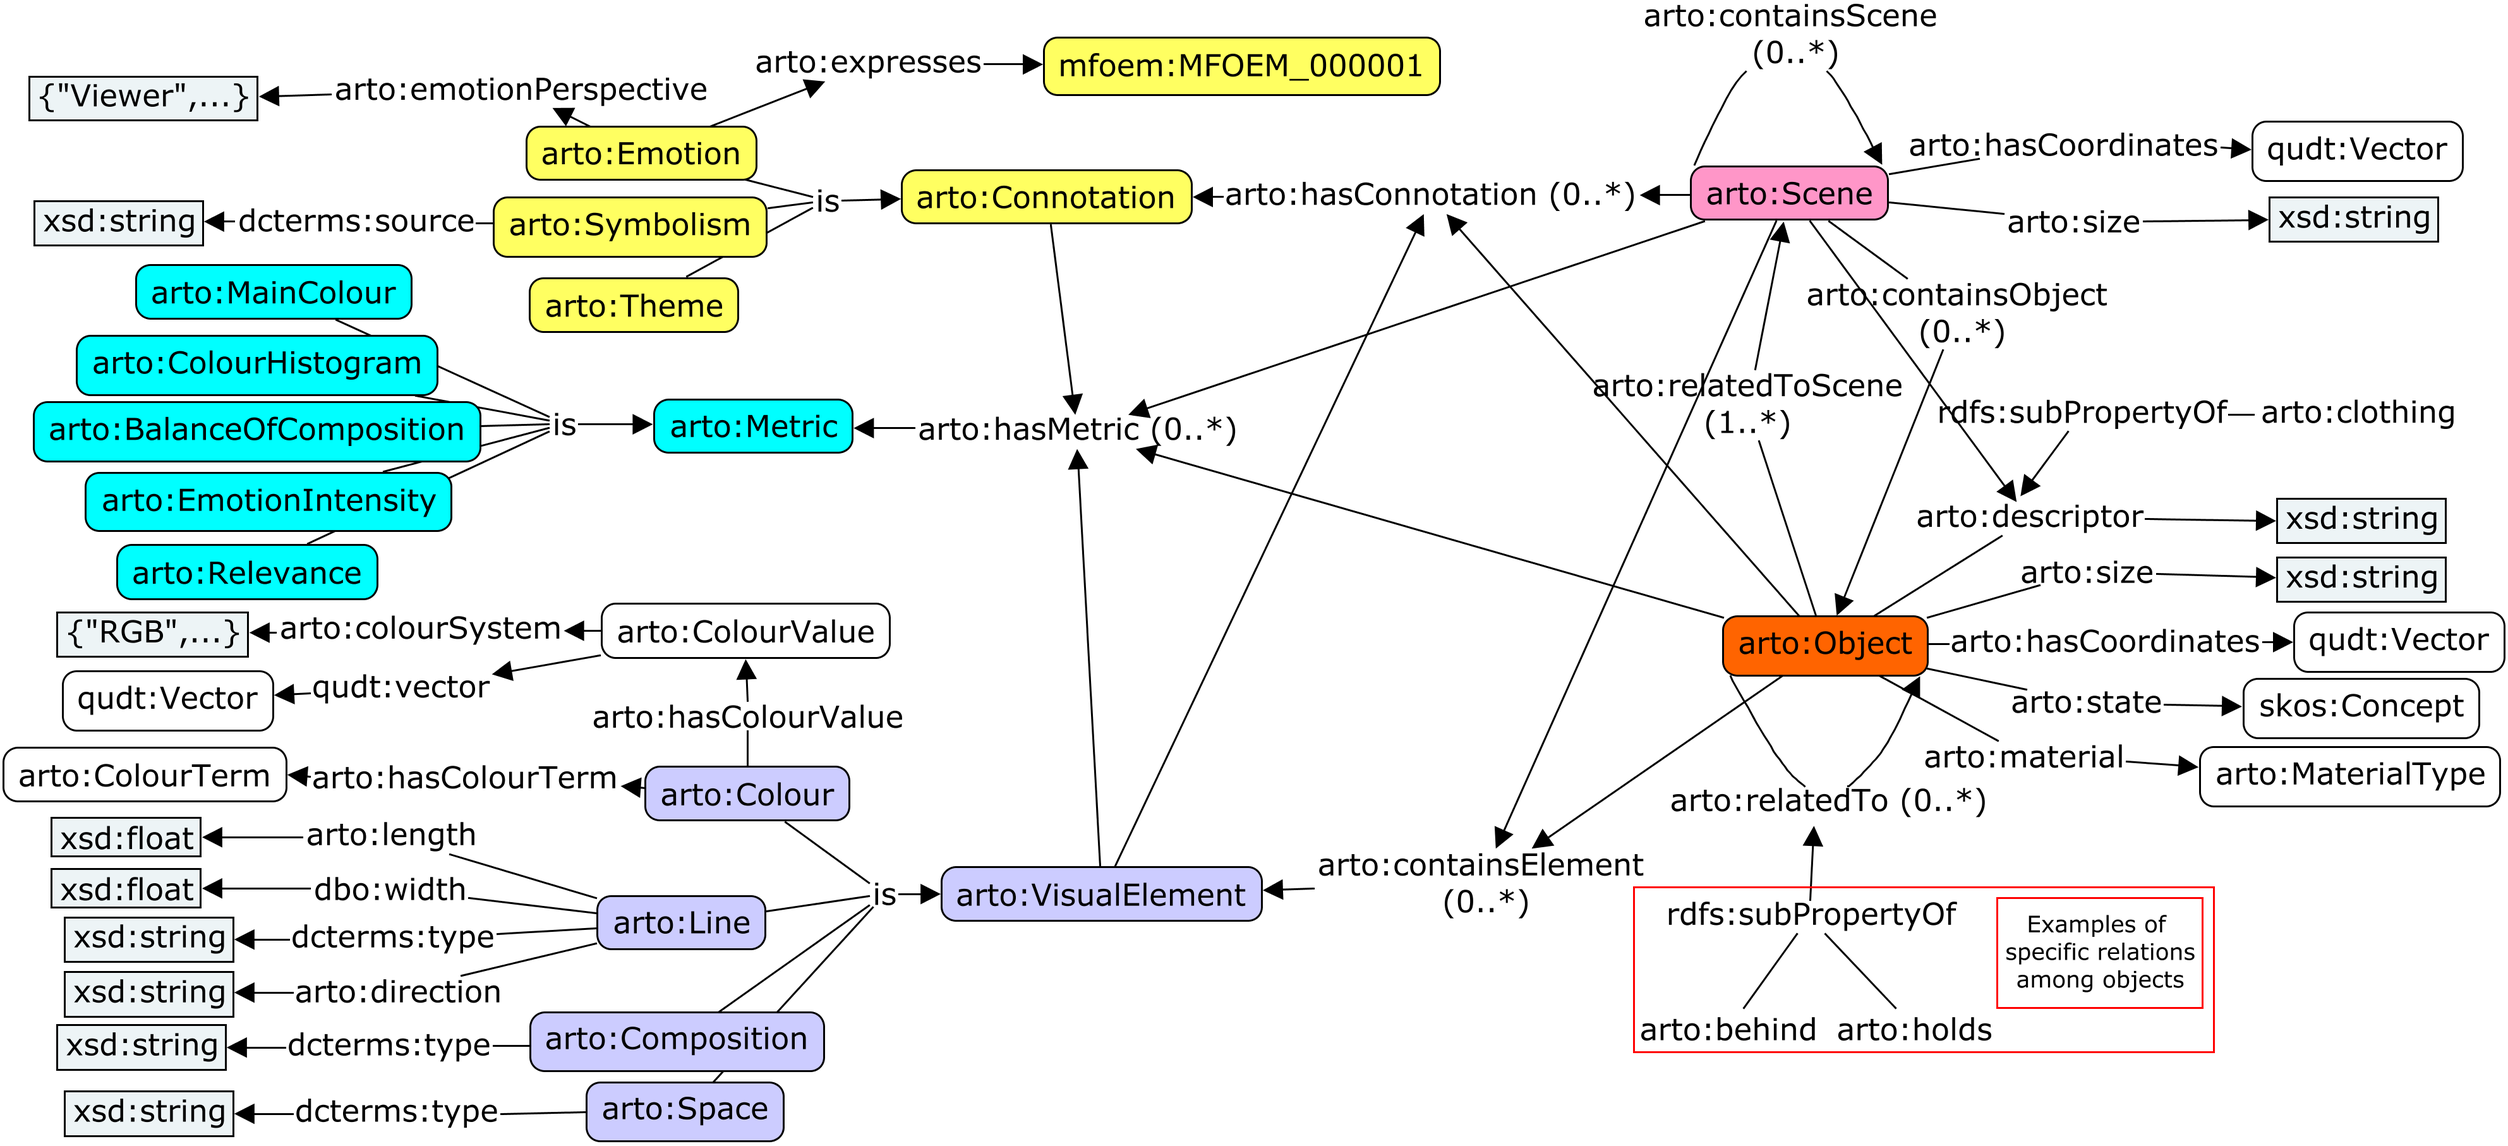
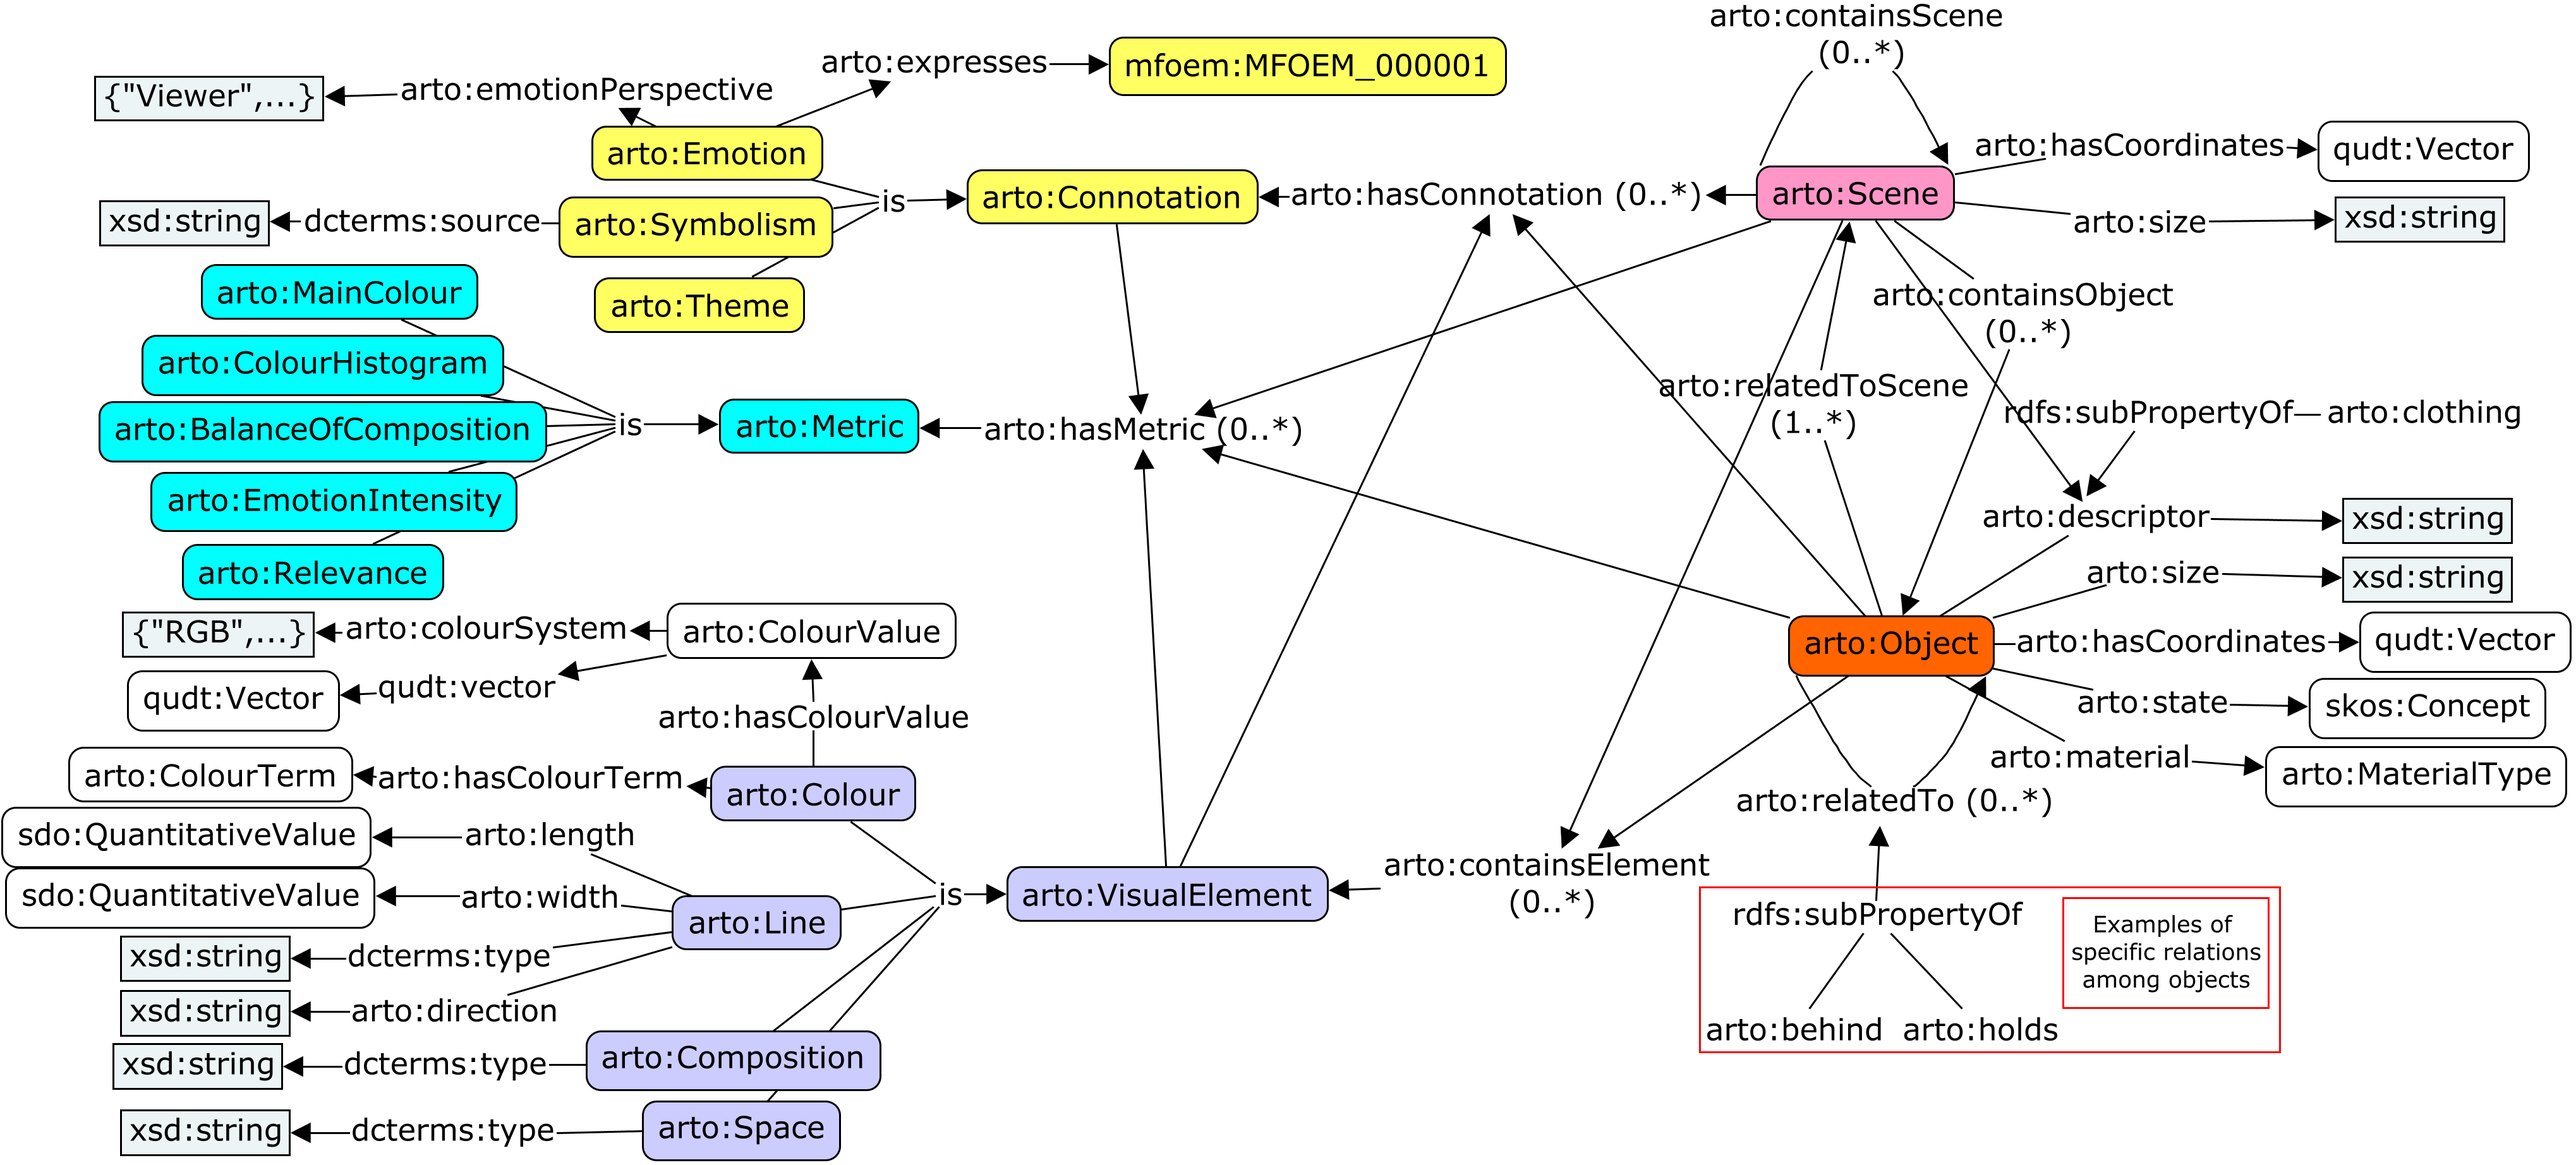
update

diff --git a/README.md b/README.md
@@ -52,7 +52,7 @@ To demonstrate the application of the ARTO models, consider Figure 4, the artwor
 
 The Contextual Model provides insights into the painting’s creation in 1889, during the artist's life, reflecting the social and historical aspects of that era in France. 
 
-> We use RDF-star to represent "The Shepherdess", specifically focusing on the Event class. Standard RDF increases modeling complexity due to its limitation to binary relationships (see [RDF example](RDFExampleContextualModel.md)).
+> We use RDF-star to represent "The Shepherdess", specifically focusing on the Event class. Standard RDF increases modelling complexity due to its limitation to binary relationships (see [RDF example](RDFExampleContextualModel.md)).
 
 ### Contextual Model of The Shepherdess 
 
@@ -98,15 +98,15 @@ The table below summarises previous works in the field. The "Motivation for ARTO
 
 | Name      | Domain           | Goal       | Ontology Scope                         | Strengths    | Motivation for ARTO                   |
 |-----------|------------------|---------------------------|---------------------|--------------------------------------|-----------------------------------------------------------------------|
-| CIDOC-CRM                                               | Cultural Heritage | To provide a theoretical and practical tool for integrating information in the cultural heritage domain, facilitating complex data queries and explorations. |  Events, actors, artifacts, and their relationships in cultural heritage contexts |  Comprehensive model, high-level data integration and retrieval |   Lacks detailed visual description capabilities for artwork content. ARTO provides comprehensive visual element representation (colour, line, composition) and multi-level content modeling         |
-| Visual Representation (VIR)                             | Visual Arts       | To extend CIDOC-CRM to describe the representation and relationships of visual features.                         | Visual elements, media, representation, and relationships        | Enhances visual data accessibility and retrieval                   | Lacks a multi-level representation structure and comprehensive contextual modeling. ARTO provides both detailed visual content representation and rich contextual information for artwork captioning. |
-| Functional Requirements for Bibliographic Records (FRBR)| Bibliography      | To provide a comprehensive model for bibliographic records, focusing on the relationships between different entities such as works, expressions, manifestations, and items. | Bibliographic records, works, expressions, manifestations, items, and their relationships  | Clear structure for bibliographic data management               | Only cover bibliographic resources. ARTO provides detailed modeling for artworks                     |
+| CIDOC-CRM                                               | Cultural Heritage | To provide a theoretical and practical tool for integrating information in the cultural heritage domain, facilitating complex data queries and explorations. |  Events, actors, artifacts, and their relationships in cultural heritage contexts |  Comprehensive model, high-level data integration and retrieval |   Lacks detailed visual description capabilities for artwork content. ARTO provides comprehensive visual element representation (colour, line, composition) and multi-level content modelling         |
+| Visual Representation (VIR)                             | Visual Arts       | To extend CIDOC-CRM to describe the representation and relationships of visual features.                         | Visual elements, media, representation, and relationships        | Enhances visual data accessibility and retrieval                   | Lacks a multi-level representation structure and comprehensive contextual modelling. ARTO provides both detailed visual content representation and rich contextual information for artwork captioning. |
+| Functional Requirements for Bibliographic Records (FRBR)| Bibliography      | To provide a comprehensive model for bibliographic records, focusing on the relationships between different entities such as works, expressions, manifestations, and items. | Bibliographic records, works, expressions, manifestations, items, and their relationships  | Clear structure for bibliographic data management               | Only cover bibliographic resources. ARTO provides detailed modelling for artworks                     |
 | ArCo                                                    | Cultural Heritage | To describe and manage Italian cultural heritage, including artifacts, sites, and other cultural assets.                |  Italian cultural artifacts, heritage sites, and their relationships | Focused on Italian cultural heritage, detailed descriptions     | Focuses on cataloguing Italian cultural heritage; ARTO provides a domain-agnostic framework for detailed artwork description |
 | Europeana Data Model (EDM)                              | Digital Libraries | To provide a flexible framework for integrating and managing cultural heritage data from various sources across Europe.  |  Digital objects, metadata, cultural heritage collections, and their relationships  | Supports multilingual data integration  | Mainly for data organisation and retrieval. ARTO offers in-depth content representation beyond basic metadata |
-| Visual Resources Association Core (VRA CORE)            | Visual Resources  | To manage and describe visual resources, including images and visual works, in a standardised way.      | Visual works, images, titles, artistic styles, materials, etc.       | Improves visual data interoperability                           | Lacks descriptions of visual elements. ARTO provides detailed modeling of visual elements, objects and their connotations |
+| Visual Resources Association Core (VRA CORE)            | Visual Resources  | To manage and describe visual resources, including images and visual works, in a standardised way.      | Visual works, images, titles, artistic styles, materials, etc.       | Improves visual data interoperability                           | Lacks descriptions of visual elements. ARTO provides detailed modelling of visual elements, objects and their connotations |
 | ICON                                                    | Art History       | To catalogue and describe iconographic content, including symbols, motifs, and other iconographic elements.               | Icons, symbols, motifs, background information, artwork interpretation                  | Specialised in iconographic data.           Facilitates iconographic research                               | Lacks multi-level representation for comprehensive artwork captioning. ARTO integrates descriptive, contextual, and interpretive information              |
 | Art & Architecture Thesaurus (AAT)                      | Art & Architecture| To provide a structured vocabulary for art and architecture, including terms and concepts used in these fields.          | Art and architectural terms, concepts, and relationships       | Widely adopted in art and architecture communities. Enhances data consistency and retrieval                         | Need connect to other concepts to facilitate artwork captioning |
-| Union List of Artist Names (ULAN)                       | Art               | To provide a structured and standardised list of artist names and biographical information.                             | Artist names, biographical data, and their relationships           | Standardised artist identification.   Enhances artist data accuracy and linkage                       | ULAN and AAT are controlled vocabularies rather than comprehensive frameworks. ARTO incorporates these vocabularies while providing structural modeling |
+| Union List of Artist Names (ULAN)                       | Art               | To provide a structured and standardised list of artist names and biographical information.                             | Artist names, biographical data, and their relationships           | Standardised artist identification.   Enhances artist data accuracy and linkage                       | ULAN and AAT are controlled vocabularies rather than comprehensive frameworks. ARTO incorporates these vocabularies while providing structural modelling |
 |  [Linked Art ](https://linked.art/)     | Art & Cultural Heritage | To link art data across different institutions and provide a comprehensive and interconnected view of art-related information. | Artworks, artists, events, and their relationships               | Facilitates cross-institutional data integration. Promotes data interoperability     | Focused on cross-institutional data integration rather than captioning. ARTO is specifically designed for comprehensive artwork description and captioning  |
 
 ---
@@ -136,7 +136,7 @@ Integrating KG with artwork image captioning requires a systematic and clearly d
   According to the results of the data analysis, we collaborated with domain experts to define the main entities (e.g., people, places, and events) and establish a structured model that captures the relationships and hierarchies of these entities.
 
 - **Knowledge Graph**:  
-  In the knowledge graph construction phase, we process the cleaned data to identify and extract meaningful entities and their relationships, guided by our designed ontology. Our dataset primarily consists of metadata, which can be directly mapped, and text data, which necessitates the use of NLP techniques for entity extraction. Given the diverse origins of our data, inconsistencies often emerge, such as overlaps, contradictions, or varied representations of similar facts. To address these challenges and enrich our KG, we integrated trusted external resources like Wikidata and DBpedia. With these additions, we aligned with different sources, extended the information, and merged them to build a unified knowledge graph.
+  In the knowledge graph construction phase, we process the cleaned data to identify and extract meaningful entities and their relationships, guided by our designed ontology. Our dataset primarily consists of metadata, which can be directly mapped, and text data, which necessitates the use of NLP techniques for entity extraction. Given the diverse origins of our data, inconsistencies often emerge, such as overlaps, contradictions, or varied representations of similar facts. To address these challenges and enrich our KG, we integrated trusted external resources like [Wikidata](https://www.wikidata.org) and [DBpedia](https://www.dbpedia.org). With these additions, we aligned with different sources, extended the information, and merged them to build a unified knowledge graph.
 
 - **Knowledge Graphs work with LLMs**:  
   The combination of LLMs and KG provides a promising solution. LLMs could generate human-like text, while KGs offer structured knowledge about artworks. Together, they can generate captions that are coherent, contextual, and accurate.
@@ -191,7 +191,7 @@ We welcome contributions to enhance and expand the *Artwork Object Ontology*. If
   title={{ARTO}: {ARTwork} Object Ontology for Descriptive and Contextual Representation},
   author={Yang, Can and Pereira Nunes, Bernardo and Méndez, Sergio R. and Chen, Yige and Manrique, Rubén and Casanova, Marco A.},
   year={2025},
-  note={Version 1.0},
+  note={Version 0.2},
   howpublished={Ontology},
   url={https://w3id.org/arto},
   institution={Australian National University Social Machine Lab}

diff --git a/examples/README.md b/examples/README.md
@@ -48,7 +48,7 @@ The complete RDF-star and RDF representations of these examples are available as
     dc:title "Composition II in Red, Blue, and Yellow"@en ;
     dc:creator :mondrian ;
     arto:style :neoplasticism ;
-    arto:genre :abstract_art ;
+    arto:genre :Abstract_art ;
     arto:containsScene :main_scene .
 
 :main_scene a arto:Scene ;
@@ -83,8 +83,8 @@ The complete RDF-star and RDF representations of these examples are available as
     dc:title "The Thinker"@en ;
     dc:creator :auguste_rodin ;
     arto:medium aat:300010957 ;         # Bronze
-    arto:technique :lost_wax_casting ;
-    arto:style :neoclassicism ;
+    arto:technique :Lost-wax_casting ;
+    arto:style :Neoclassicism ;
     arto:containsScene :contemplation_scene .
 
 :contemplation_scene a arto:Scene ;

diff --git a/ARTOvsOthers.md b/ARTOvsOthers.md
@@ -119,8 +119,16 @@ ARTO provides measurable properties for visual elements:
 # ARTO - Specific measurements
 ex:curved_line rdf:type arto:Line ;
     arto:direction "Curved" ;
-    arto:length 20.0 ;
-    arto:width 2.0 .
+    arto:length [
+        a sdo:QuantitativeValue ;
+        sdo:value "20.0"^^xsd:decimal ;
+        sdo:unitCode unit:CentiM
+    ] ;
+    arto:width [
+        a sdo:QuantitativeValue ;
+        sdo:value "2.0"^^xsd:decimal ;
+        sdo:unitCode unit:CentiM
+    ] .
 
 # ICON - No geometric properties available
 ```
